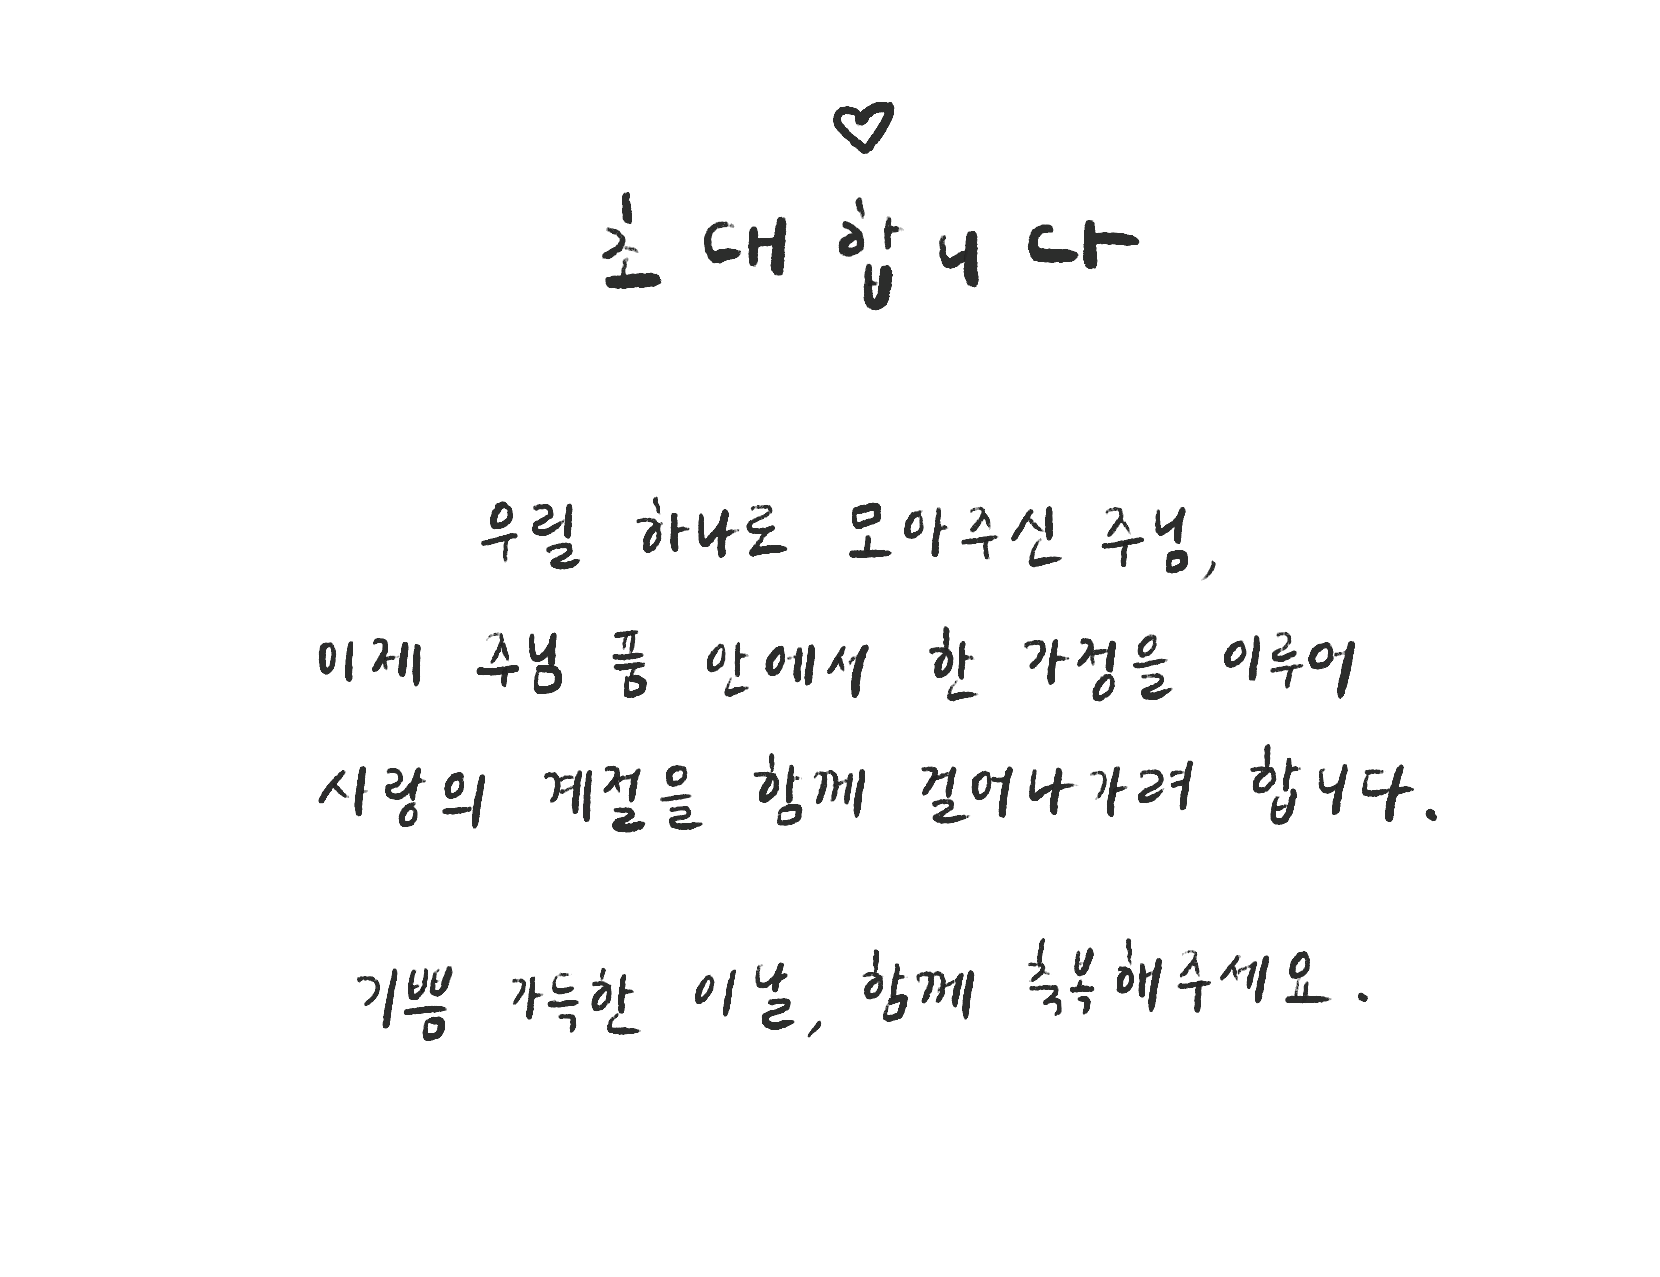
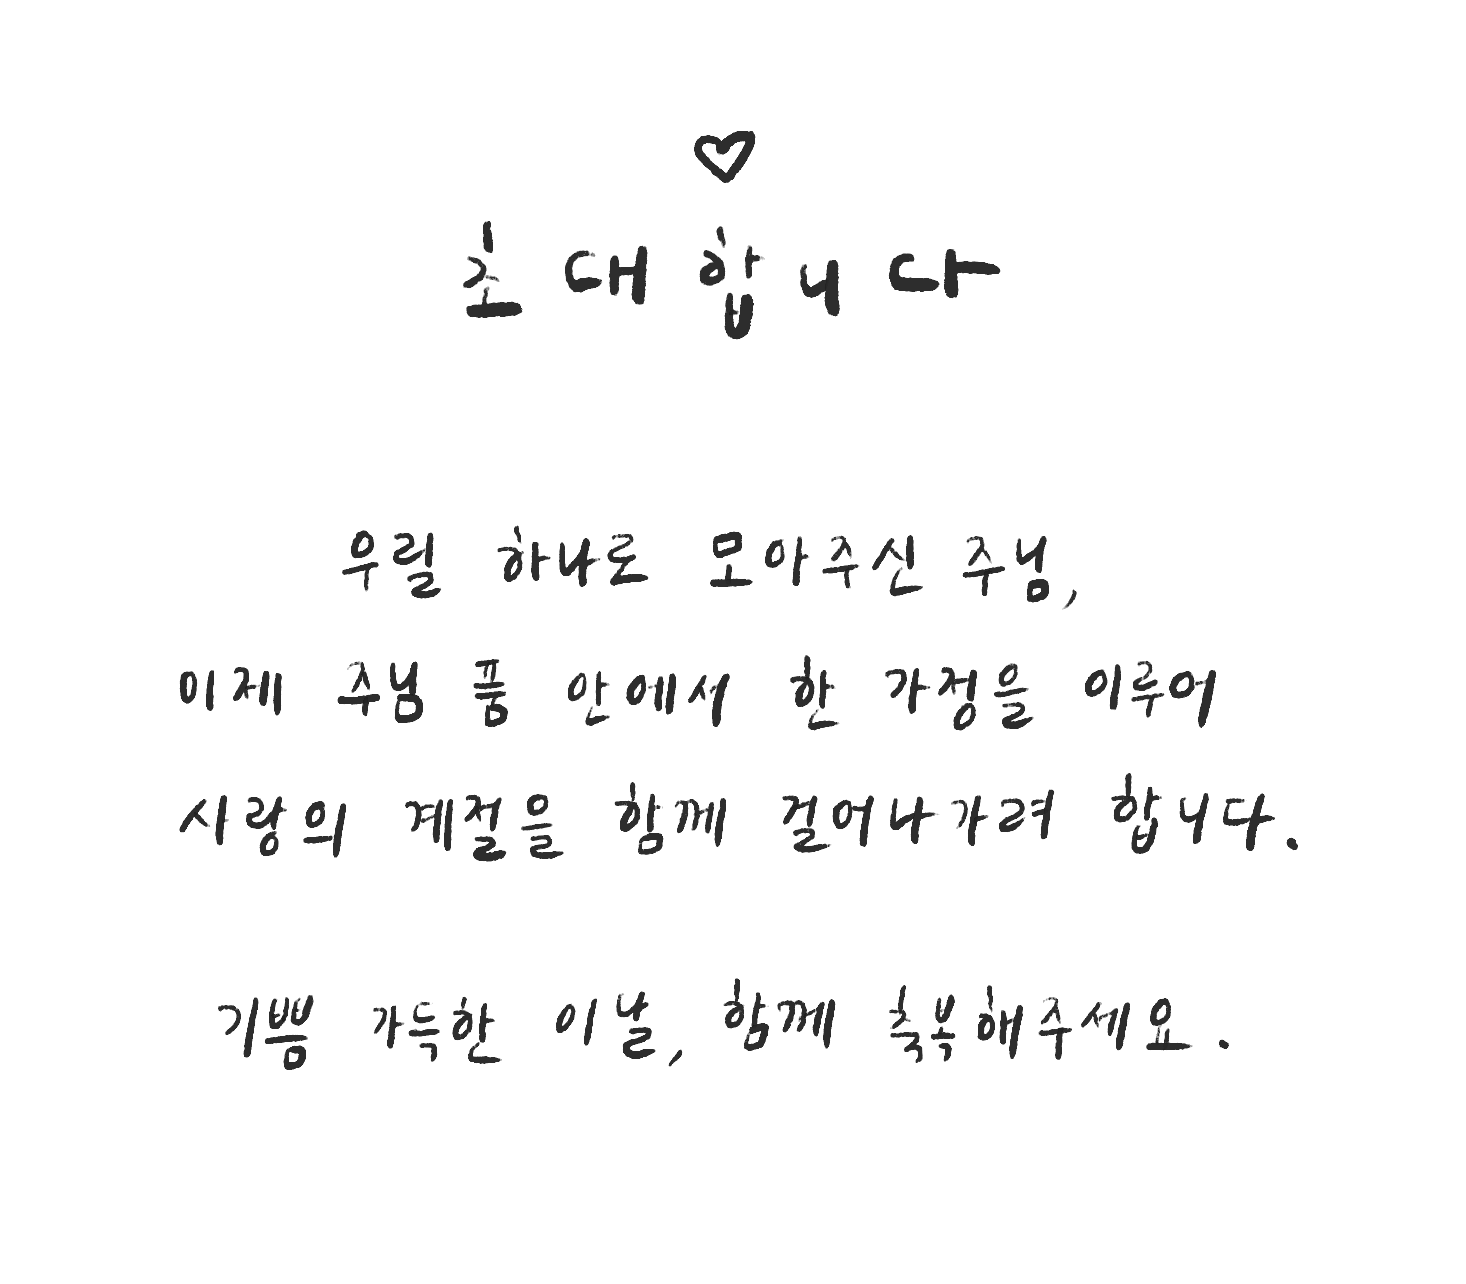
오늘의 마지막 업로드

diff --git a/wedding2/wedding.css b/wedding2/wedding.css
@@ -398,7 +398,7 @@ body {
 }
 
 .handwriting-img img {
-    width: 180%;
+    width: 120%;
     height: auto;
     display: block;
     
